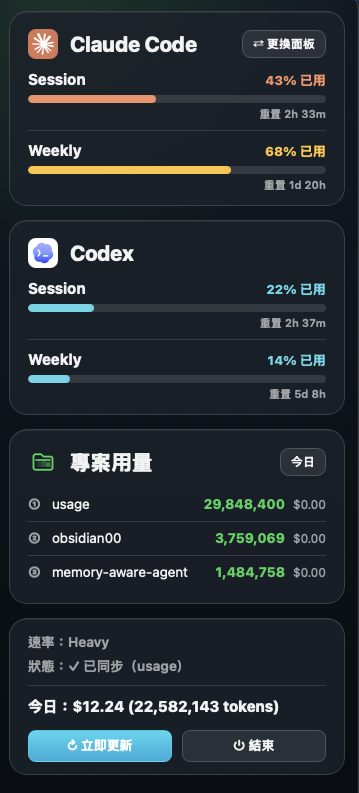
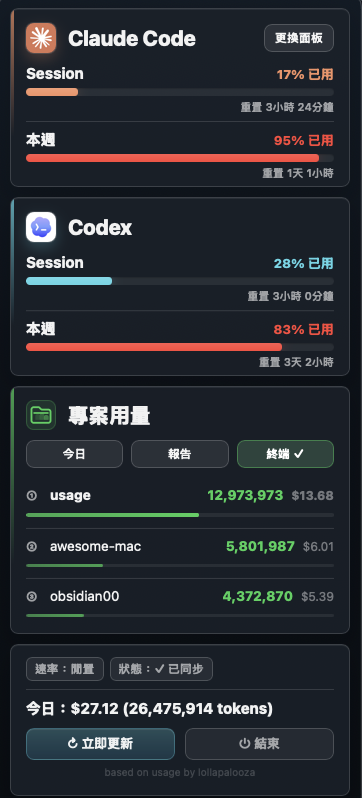
feat: v0.11.18 — refine statusline progress bar (■□ + softer 256-color palette)
- progress_bar(): █░ → ■□ for filled/empty cells
- color_by_pct(): ANSI 32/33/31 → 256-color 42/214/160
  (teal / warm orange / dark red) for stronger 50% threshold contrast
- tests: sync assertion in test_render_outputs_multiline_colored_statusline
- docs: refresh Traditional Chinese default panel screenshot
- bump version to 0.11.18; sync uv.lock

diff --git a/usage_statusline.py b/usage_statusline.py
@@ -254,10 +254,10 @@ def get_width() -> int:
 
 def color_by_pct(pct: float) -> str:
     if pct < 50:
-        return C["green"]
+        return "\033[38;5;42m"
     if pct < 80:
-        return C["yellow"]
-    return C["red"]
+        return "\033[38;5;214m"
+    return "\033[38;5;160m"
 
 
 def fmt_tokens(n: Any) -> str:
@@ -273,8 +273,8 @@ def fmt_tokens(n: Any) -> str:
 
 
 def progress_bar(value: Any, bar_width: int = 8) -> str:
-    filled_char = "█"
-    empty_char = "░"
+    filled_char = "■"
+    empty_char = "□"
     if value is None:
         return empty_char * bar_width + " n/a"
     pct = max(0.0, min(100.0, float(value)))

diff --git a/tests/test_usage_statusline.py b/tests/test_usage_statusline.py
@@ -256,7 +256,7 @@ def test_render_outputs_multiline_colored_statusline(
 
     assert "\n" in output
     assert "\033[" in output
-    assert "█" in output
+    assert "■" in output
     assert "5h" in output
     assert "7d" in output
     assert "Context" in output

diff --git a/CHANGELOG.en.md b/CHANGELOG.en.md
@@ -7,6 +7,14 @@ Format follows [Keep a Changelog](https://keepachangelog.com/).
 
 ## [Unreleased]
 
+## [0.11.18] - 2026-05-28
+
+### Changed
+- **Statusline progress bar visual refresh**: progress bar characters switched from `█░` to `■□` (filled / hollow squares), and the color palette moved from standard ANSI green/yellow/red (32/33/31) to 256-color teal/orange/dark-red (42/214/160) for stronger contrast around the 50% threshold — safe / warning / danger states are now distinguishable at a glance. Changes confined to `usage_statusline.py` (`progress_bar()` and `color_by_pct()`); HTML reports and the TUI progress bars are unaffected.
+
+### Docs
+- **Traditional Chinese default panel screenshot refreshed**: `docs/繁體中文面板.png` updated to reflect the latest UI (new "Report / Terminal" toggle, per-project cost display, footer attribution).
+
 ## [0.11.16] - 2026-05-27
 
 ### Fixed

diff --git a/CHANGELOG.md b/CHANGELOG.md
@@ -6,6 +6,14 @@
 
 ## [Unreleased]
 
+## [0.11.18] - 2026-05-28
+
+### 變更
+- **狀態列進度條外觀更新**：進度條字符從「█░」改成「■□」（黑底實心方塊／白底空心方塊），顏色從標準 ANSI 綠／黃／紅（32／33／31）換成 256 色青綠（42）／暖橘（214）／暗紅（160），讓 50% 臨界附近的色差更明顯，掃一眼就分得出安全／警告／危險三段。改動侷限在 `usage_statusline.py` 的 `progress_bar()` 與 `color_by_pct()`；HTML 報告與 TUI 進度條不受影響。
+
+### 文件
+- **繁體中文預設面板截圖更新**：`docs/繁體中文面板.png` 換成包含近期 UI 改動的版本（新「報告／終端」切換按鈕、per-project 成本顯示、底部 attribution 等）。
+
 ## [0.11.16] - 2026-05-27
 
 ### 修正